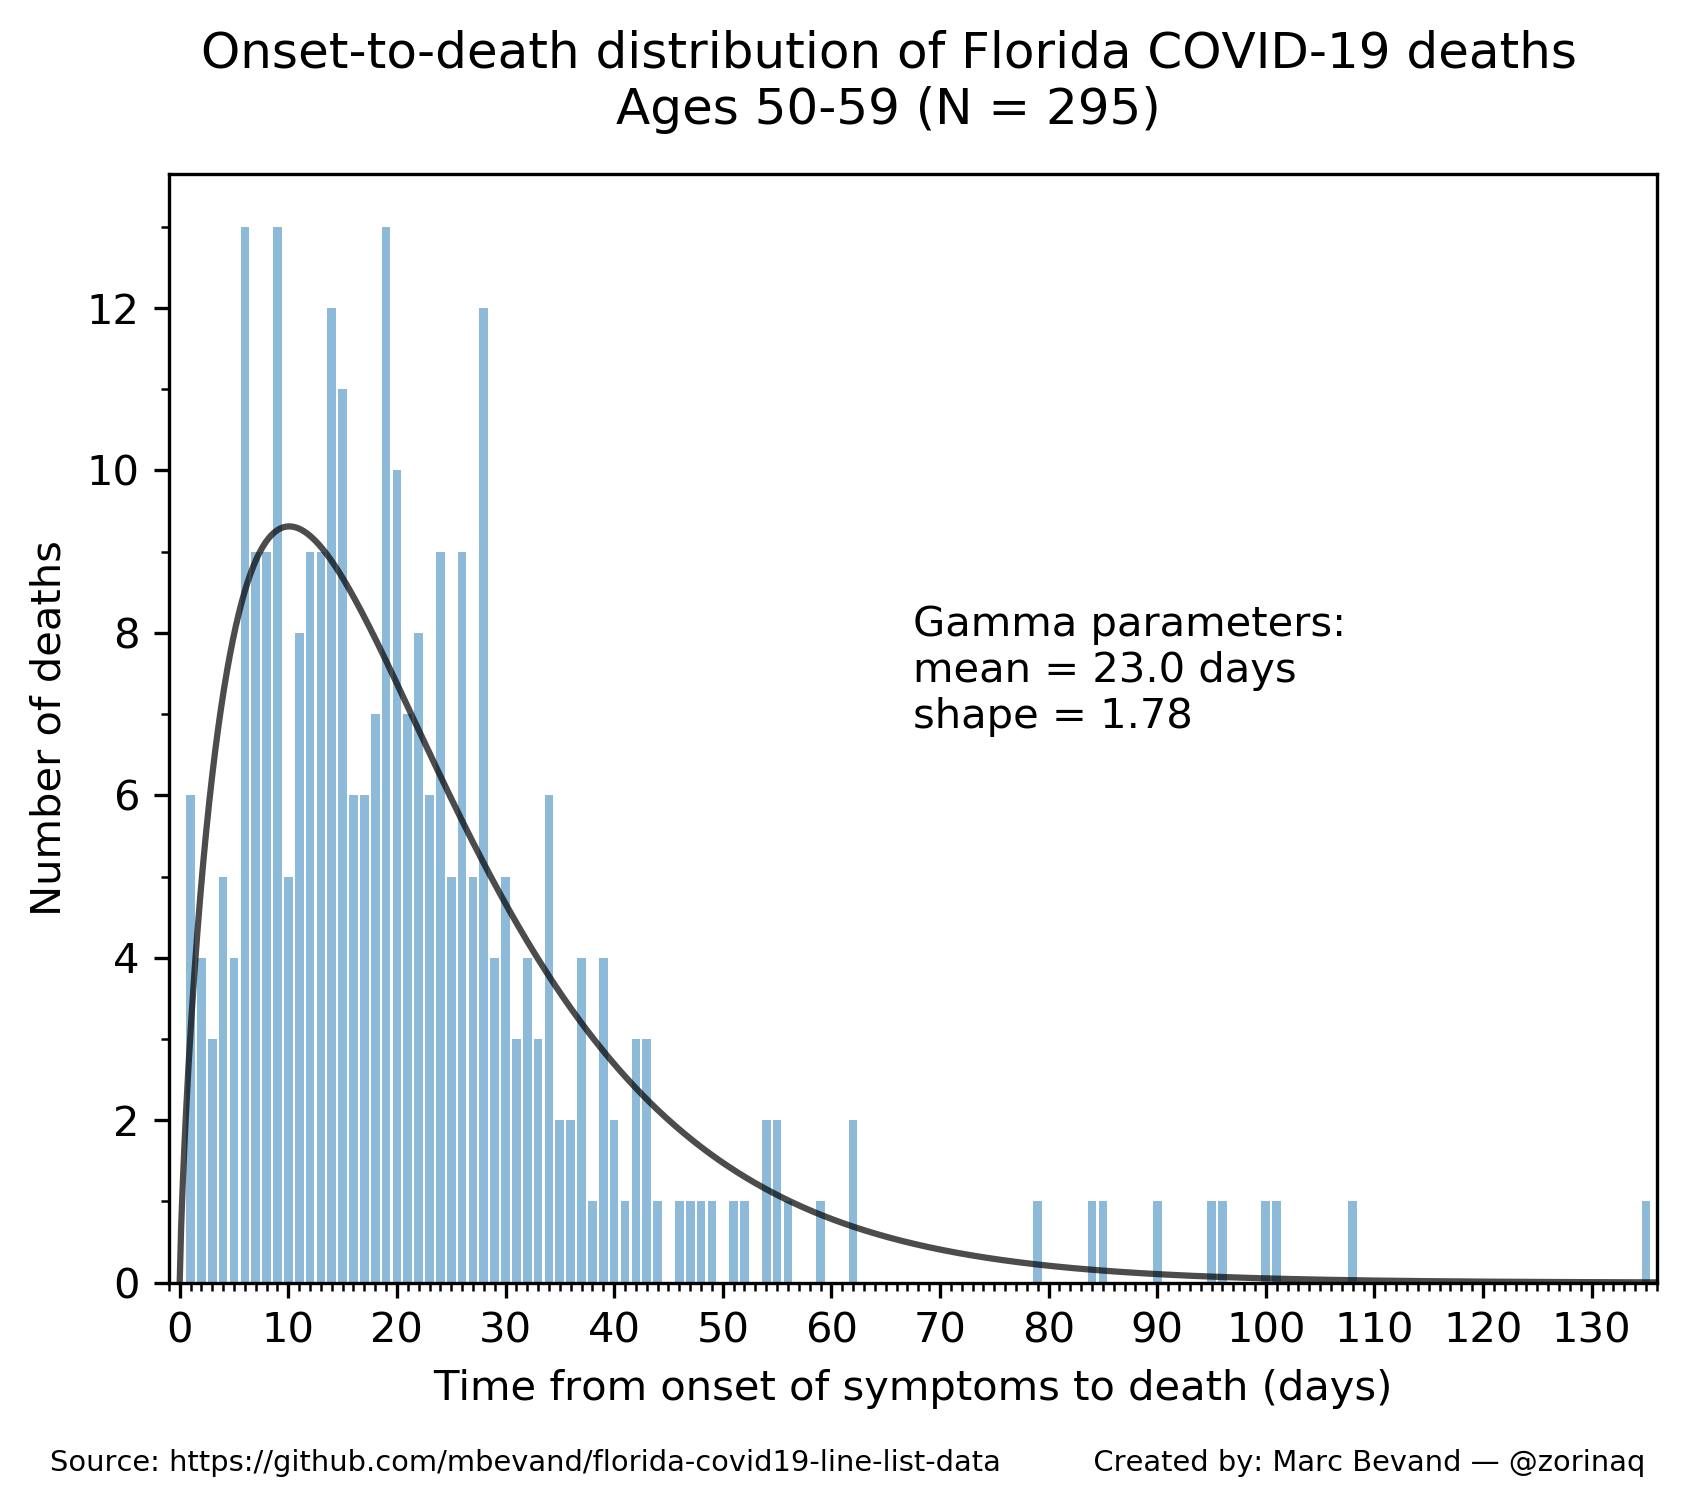
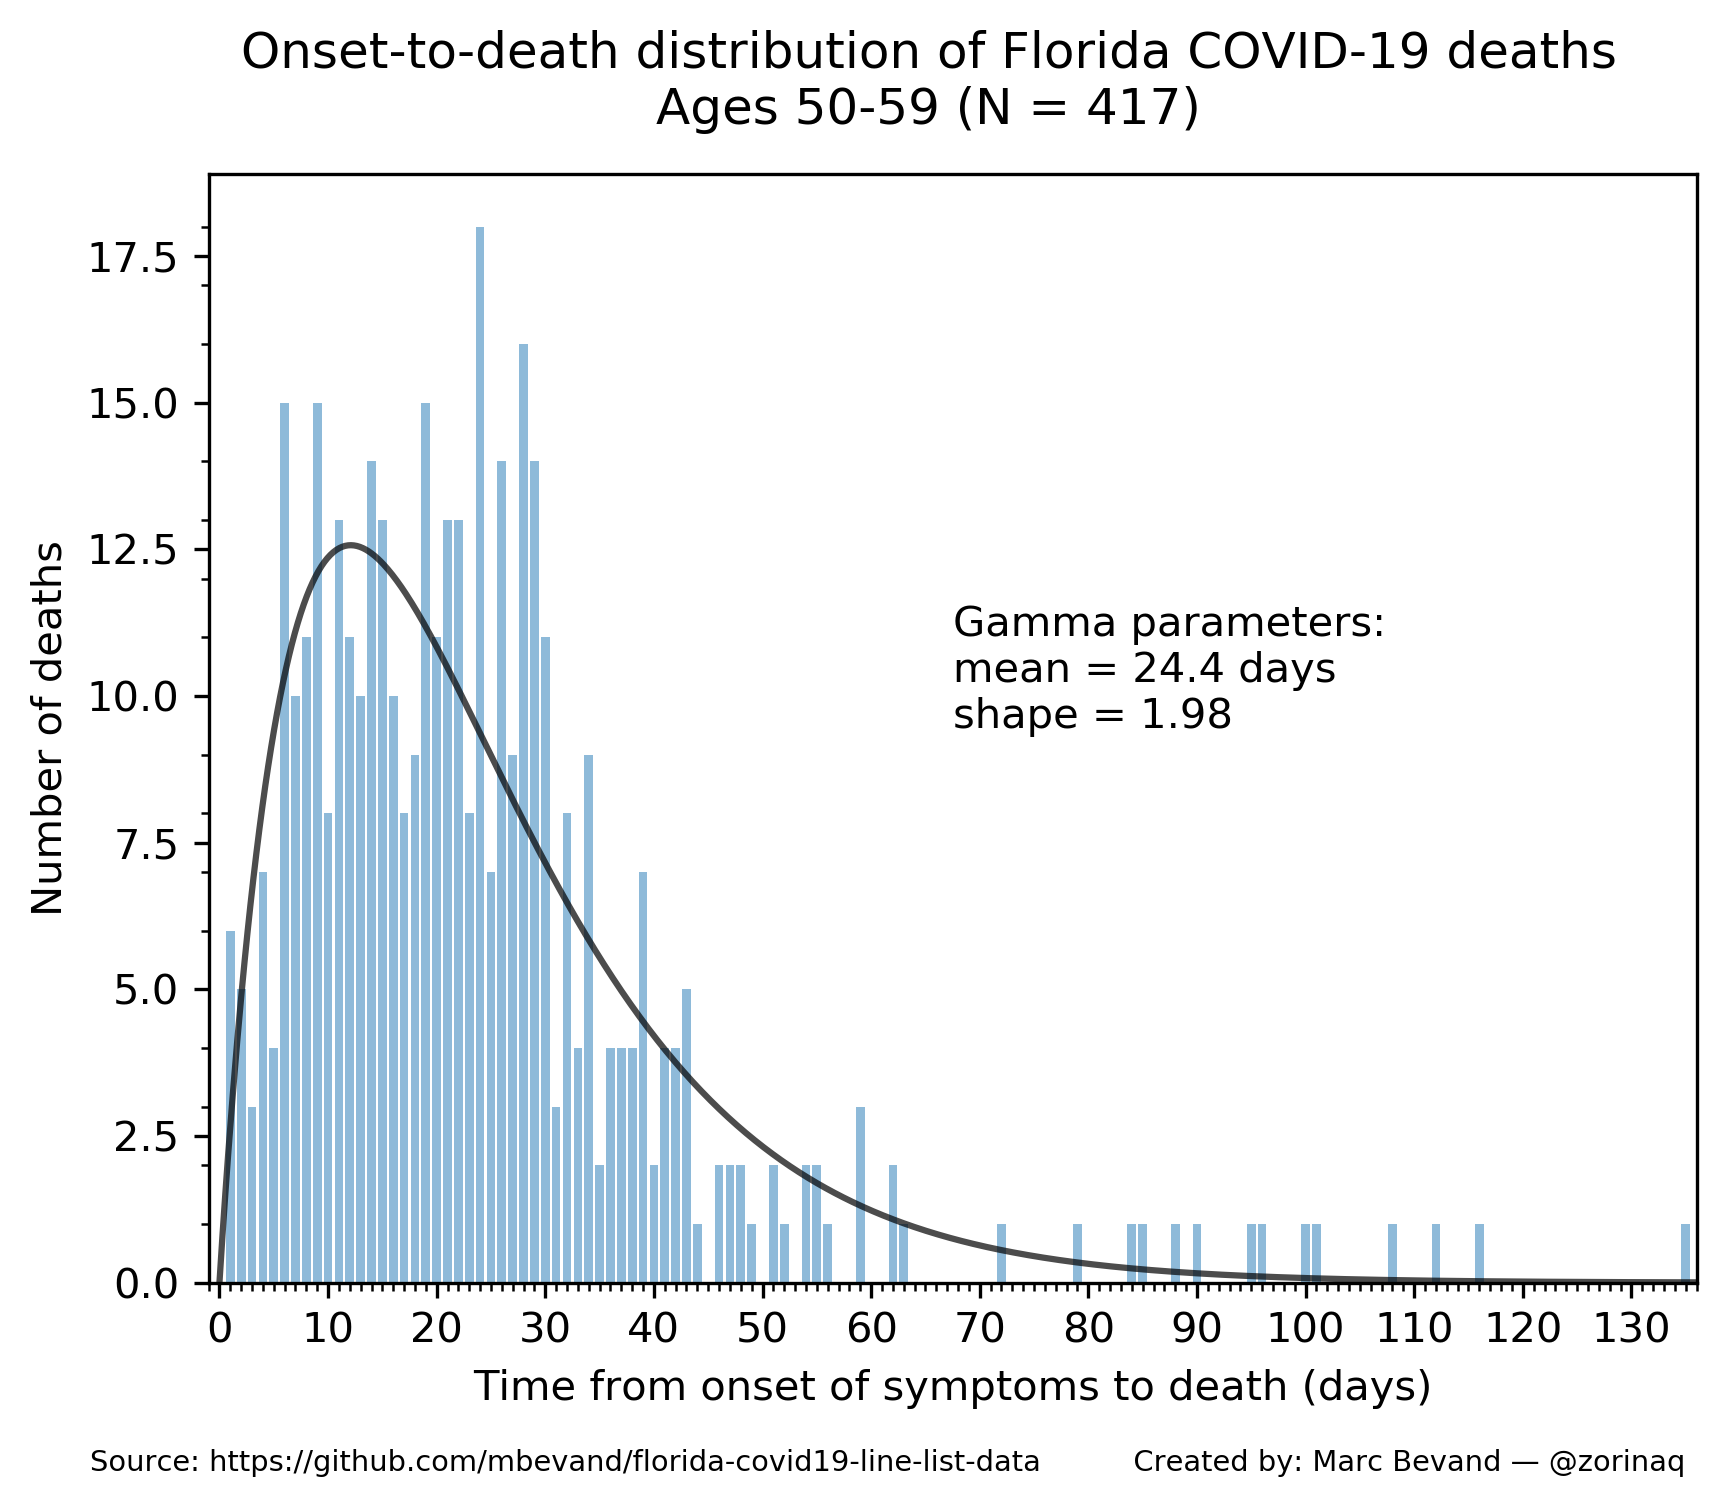
new gamma distribution

diff --git a/age_stratified_cfr.py b/age_stratified_cfr.py
@@ -218,7 +218,7 @@ def main():
         data[date][b].deaths += 1 if died else 0
         data[date][b].cases += 1
     # Parameters of the Gamma distribution of onset-to-death, calculated by gamma.py
-    mean, shape = 19.5, 2.03
+    mean, shape = 20.4, 2.08
     calc_cfr(data, mean, shape)
     #print_stats(data)
     gen_chart(data, mean, shape)

diff --git a/forecast_deaths.py b/forecast_deaths.py
@@ -24,7 +24,7 @@ csv_deaths_occurred = 'data_deaths/deaths_by_date_of_death.csv'
 deaths_occurred_ignore_days = 10
 
 # Mean time (in days) from onset of symptoms to death, calculated by gamma.py
-o2d = 19.5
+o2d = 20.4
 
 # Number of days to calculate the simple moving average of the chart curves
 avg_days = 7

diff --git a/README.md b/README.md
@@ -99,13 +99,13 @@ important that we feed it CFR estimates, not IFR estimates. Infection Fatality
 Ratios take into account *undetected* cases and thus would not be consistent
 with line list data.
 
-Then the script assumes death occurs on average 19.5 days after infection,
+Then the script assumes death occurs on average 20.4 days after infection,
 which is the mean onset-to-death time calculated by `gamma.py`.
 
 Finally, it charts the forecast (`forecast_deaths.png`). The curves are all
 smoothed with a 7-day simple moving average.
 
-The end result is a simple tool that can not only predict deaths up to ~19.5
+The end result is a simple tool that can not only predict deaths up to ~20.4
 days ahead of time, but can also estimate *past* deaths accurately: notice how
 the colored curves in the generated chart follow closely the observed deaths.
 
@@ -238,70 +238,74 @@ Parsing data_fdoh/2020-08-04-07-57-47.csv
 Parsing data_fdoh/2020-08-05-08-38-43.csv
 Parsing data_fdoh/2020-08-06-08-29-41.csv
 Parsing data_fdoh/2020-08-07-07-57-53.csv
+Parsing data_fdoh/2020-08-08-07-54-58.csv
+Parsing data_fdoh/2020-08-09-07-39-31.csv
+Parsing data_fdoh/2020-08-10-07-53-43.csv
+Parsing data_fdoh/2020-08-11-08-01-22.csv
 
 Ages 0-29:
-Number of deaths: 37
+Number of deaths: 40
 Gamma distribution params:
-mean = 15.9
-shape = 2.03
+mean = 15.2
+shape = 2.02
 
 Ages 30-39:
-Number of deaths: 72
+Number of deaths: 78
 Gamma distribution params:
-mean = 17.9
-shape = 1.49
+mean = 18.8
+shape = 1.53
 
 Ages 40-49:
-Number of deaths: 156
+Number of deaths: 179
 Gamma distribution params:
-mean = 23.9
+mean = 24.2
 shape = 1.99
 
 Ages 50-59:
-Number of deaths: 357
+Number of deaths: 417
 Gamma distribution params:
-mean = 23.8
-shape = 1.92
+mean = 24.4
+shape = 1.98
 
 Ages 60-69:
-Number of deaths: 762
+Number of deaths: 884
 Gamma distribution params:
-mean = 20.4
-shape = 2.18
+mean = 21.5
+shape = 2.27
 
 Ages 70-79:
-Number of deaths: 1253
+Number of deaths: 1453
 Gamma distribution params:
-mean = 20.1
-shape = 2.09
+mean = 20.8
+shape = 2.17
 
 Ages 80-89:
-Number of deaths: 1442
+Number of deaths: 1653
 Gamma distribution params:
-mean = 18.6
+mean = 19.7
 shape = 2.10
 
 Ages 90+:
-Number of deaths: 806
+Number of deaths: 916
 Gamma distribution params:
-mean = 17.1
-shape = 2.01
+mean = 17.7
+shape = 2.06
 
 All ages:
-Number of deaths: 4885
+Number of deaths: 5620
 Gamma distribution params:
-mean = 19.5
-shape = 2.03
+mean = 20.4
+shape = 2.08
 ```
 
-The overall (all ages) mean of 19.5 days is comparable to other published estimates, however our
-distribution is wider (ie. smaller shape parameter of 2.03) because many deaths
+The overall (all ages) mean of 20.4 days is comparable to other published estimates, however our
+distribution is wider (ie. smaller shape parameter of 2.08) because many deaths
 occur in the long tail:
 * mean 17.8 days, shape 4.94 = 0.45<sup>-2</sup>, based on sample of 24 deaths: [Estimates of the severity of coronavirus disease 2019: a model-based analysis][verity]
 * mean 15.1 days, shape 5.1, based on sample of 3 deaths: [Estimating case fatality ratio of COVID-19 from observed cases outside China][althaus]
 
 We believe our distribution parameters are more accurate because
-they are based on a much larger sample of 4885 deaths. The long tail
+they are based on a much larger sample of 5620 deaths. The long tail
 may be the result of improved treatments that can maintain patients
 alive for a longer time.
 
